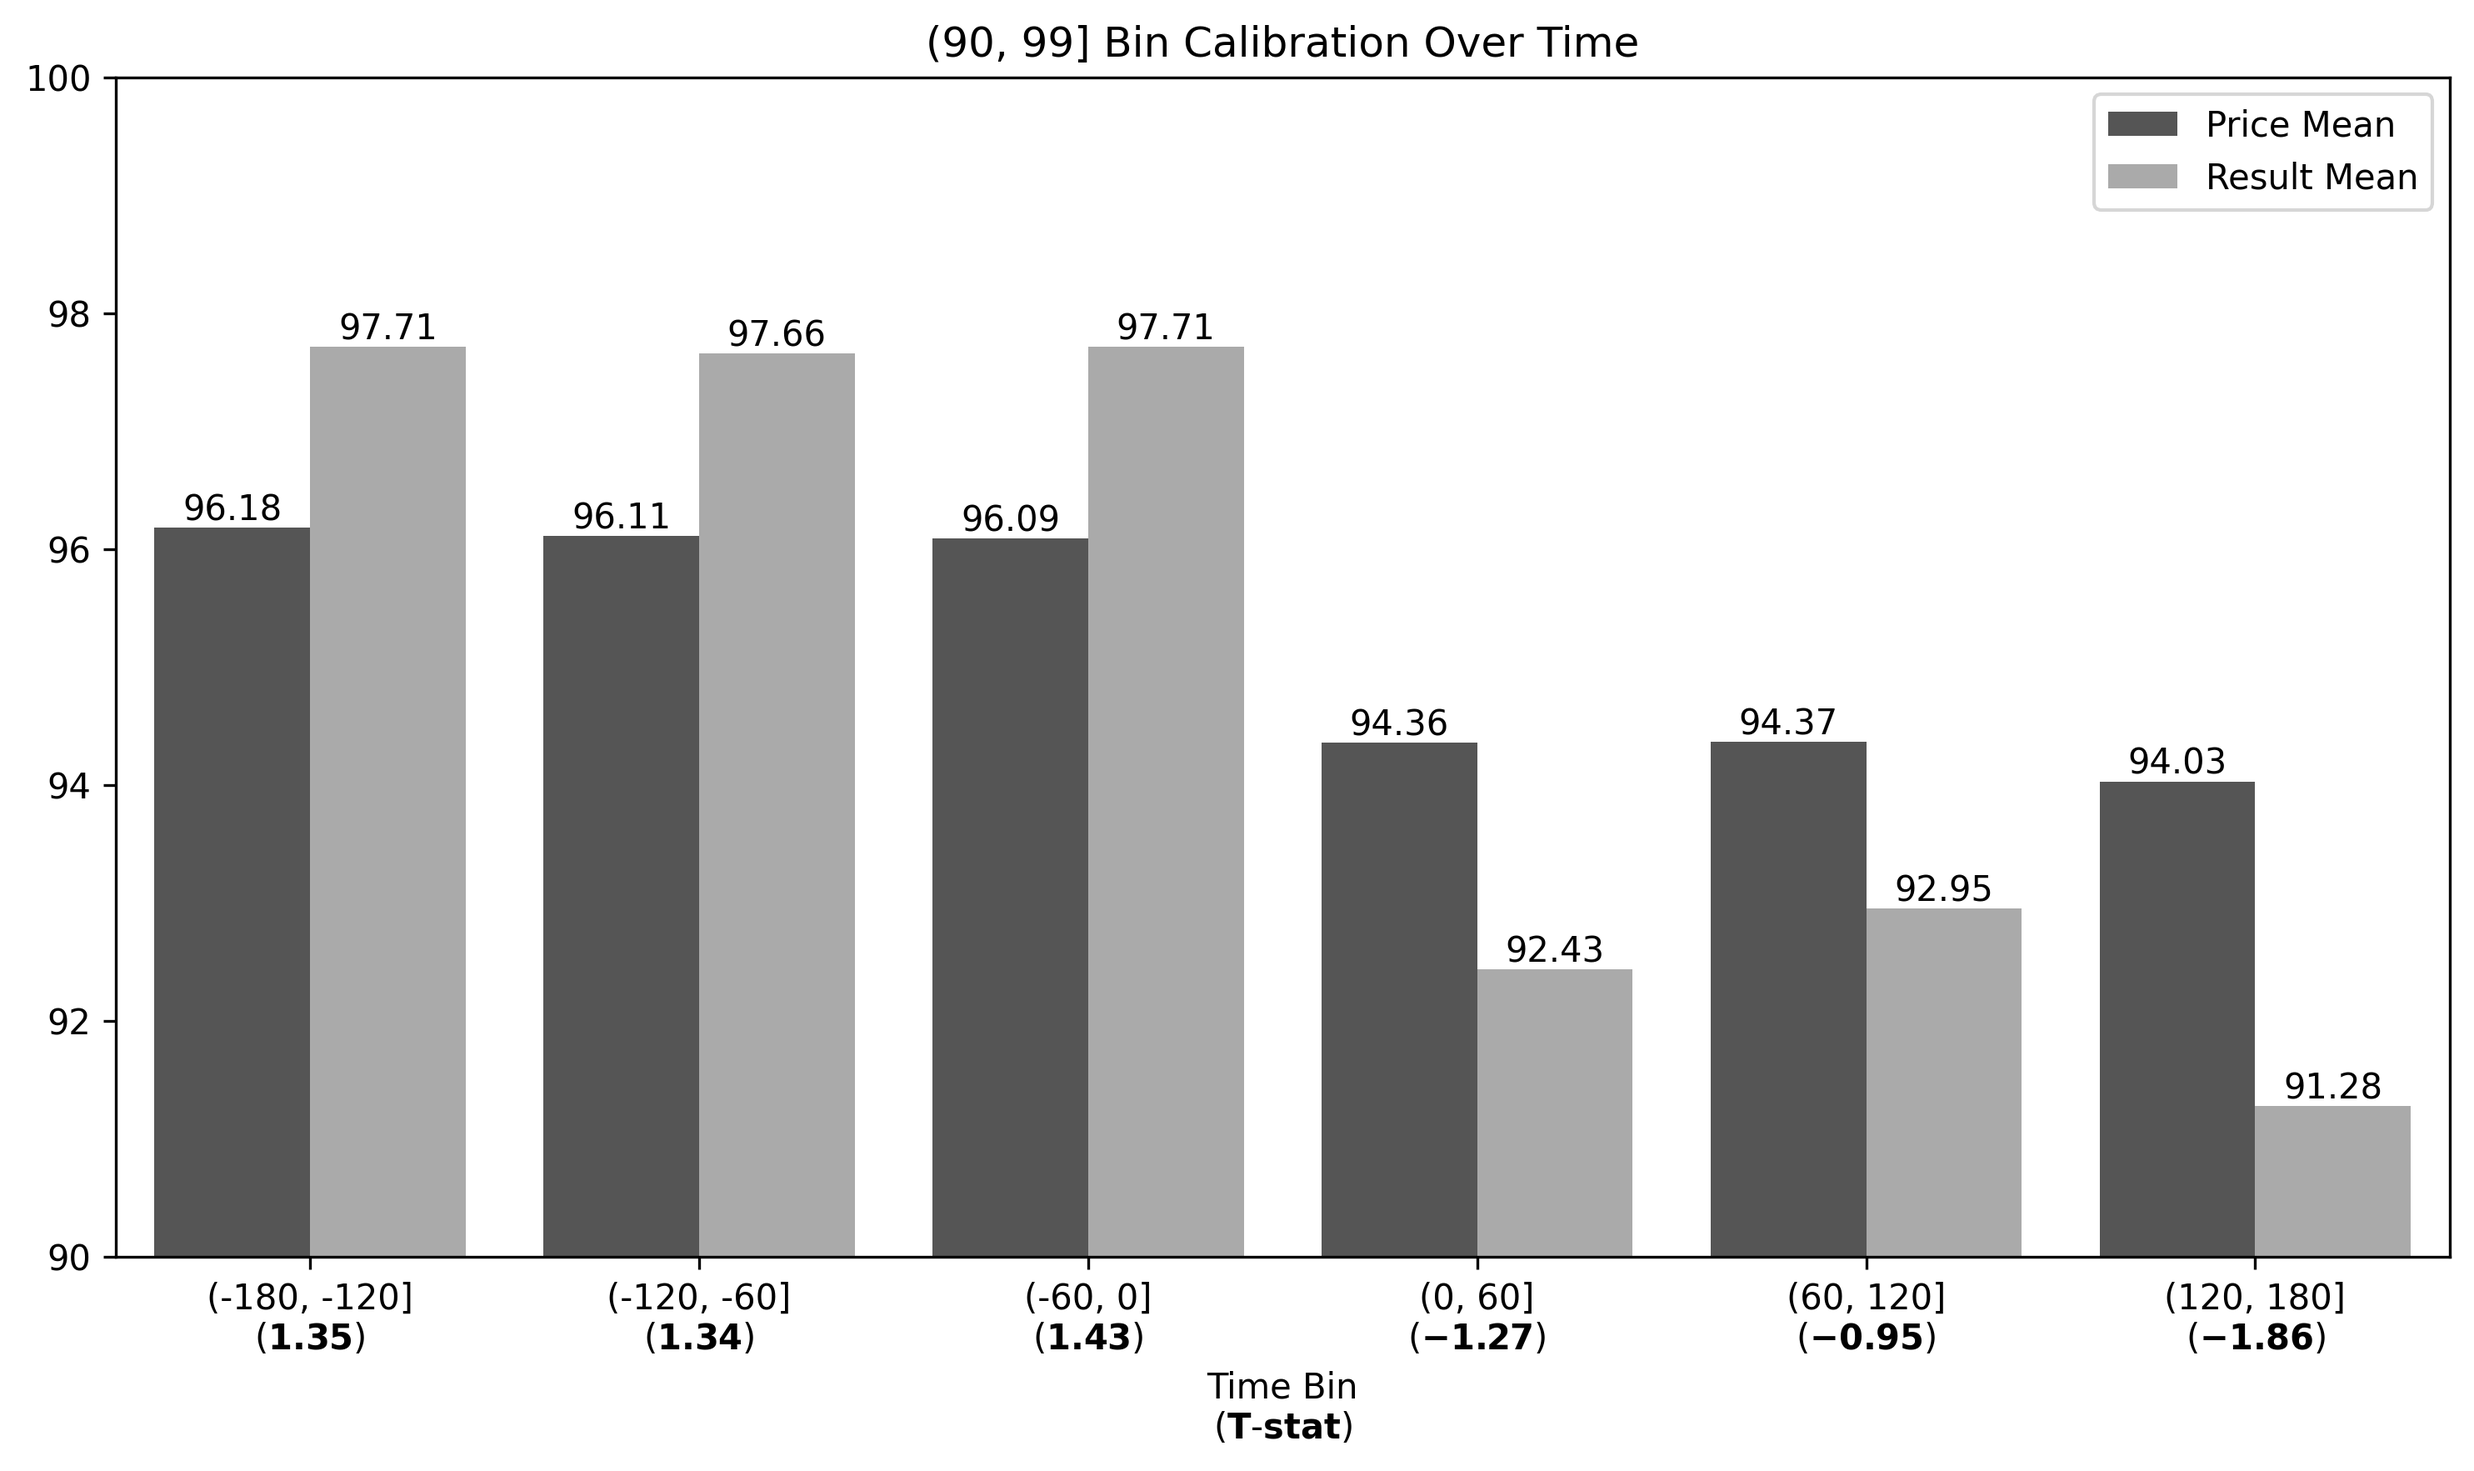
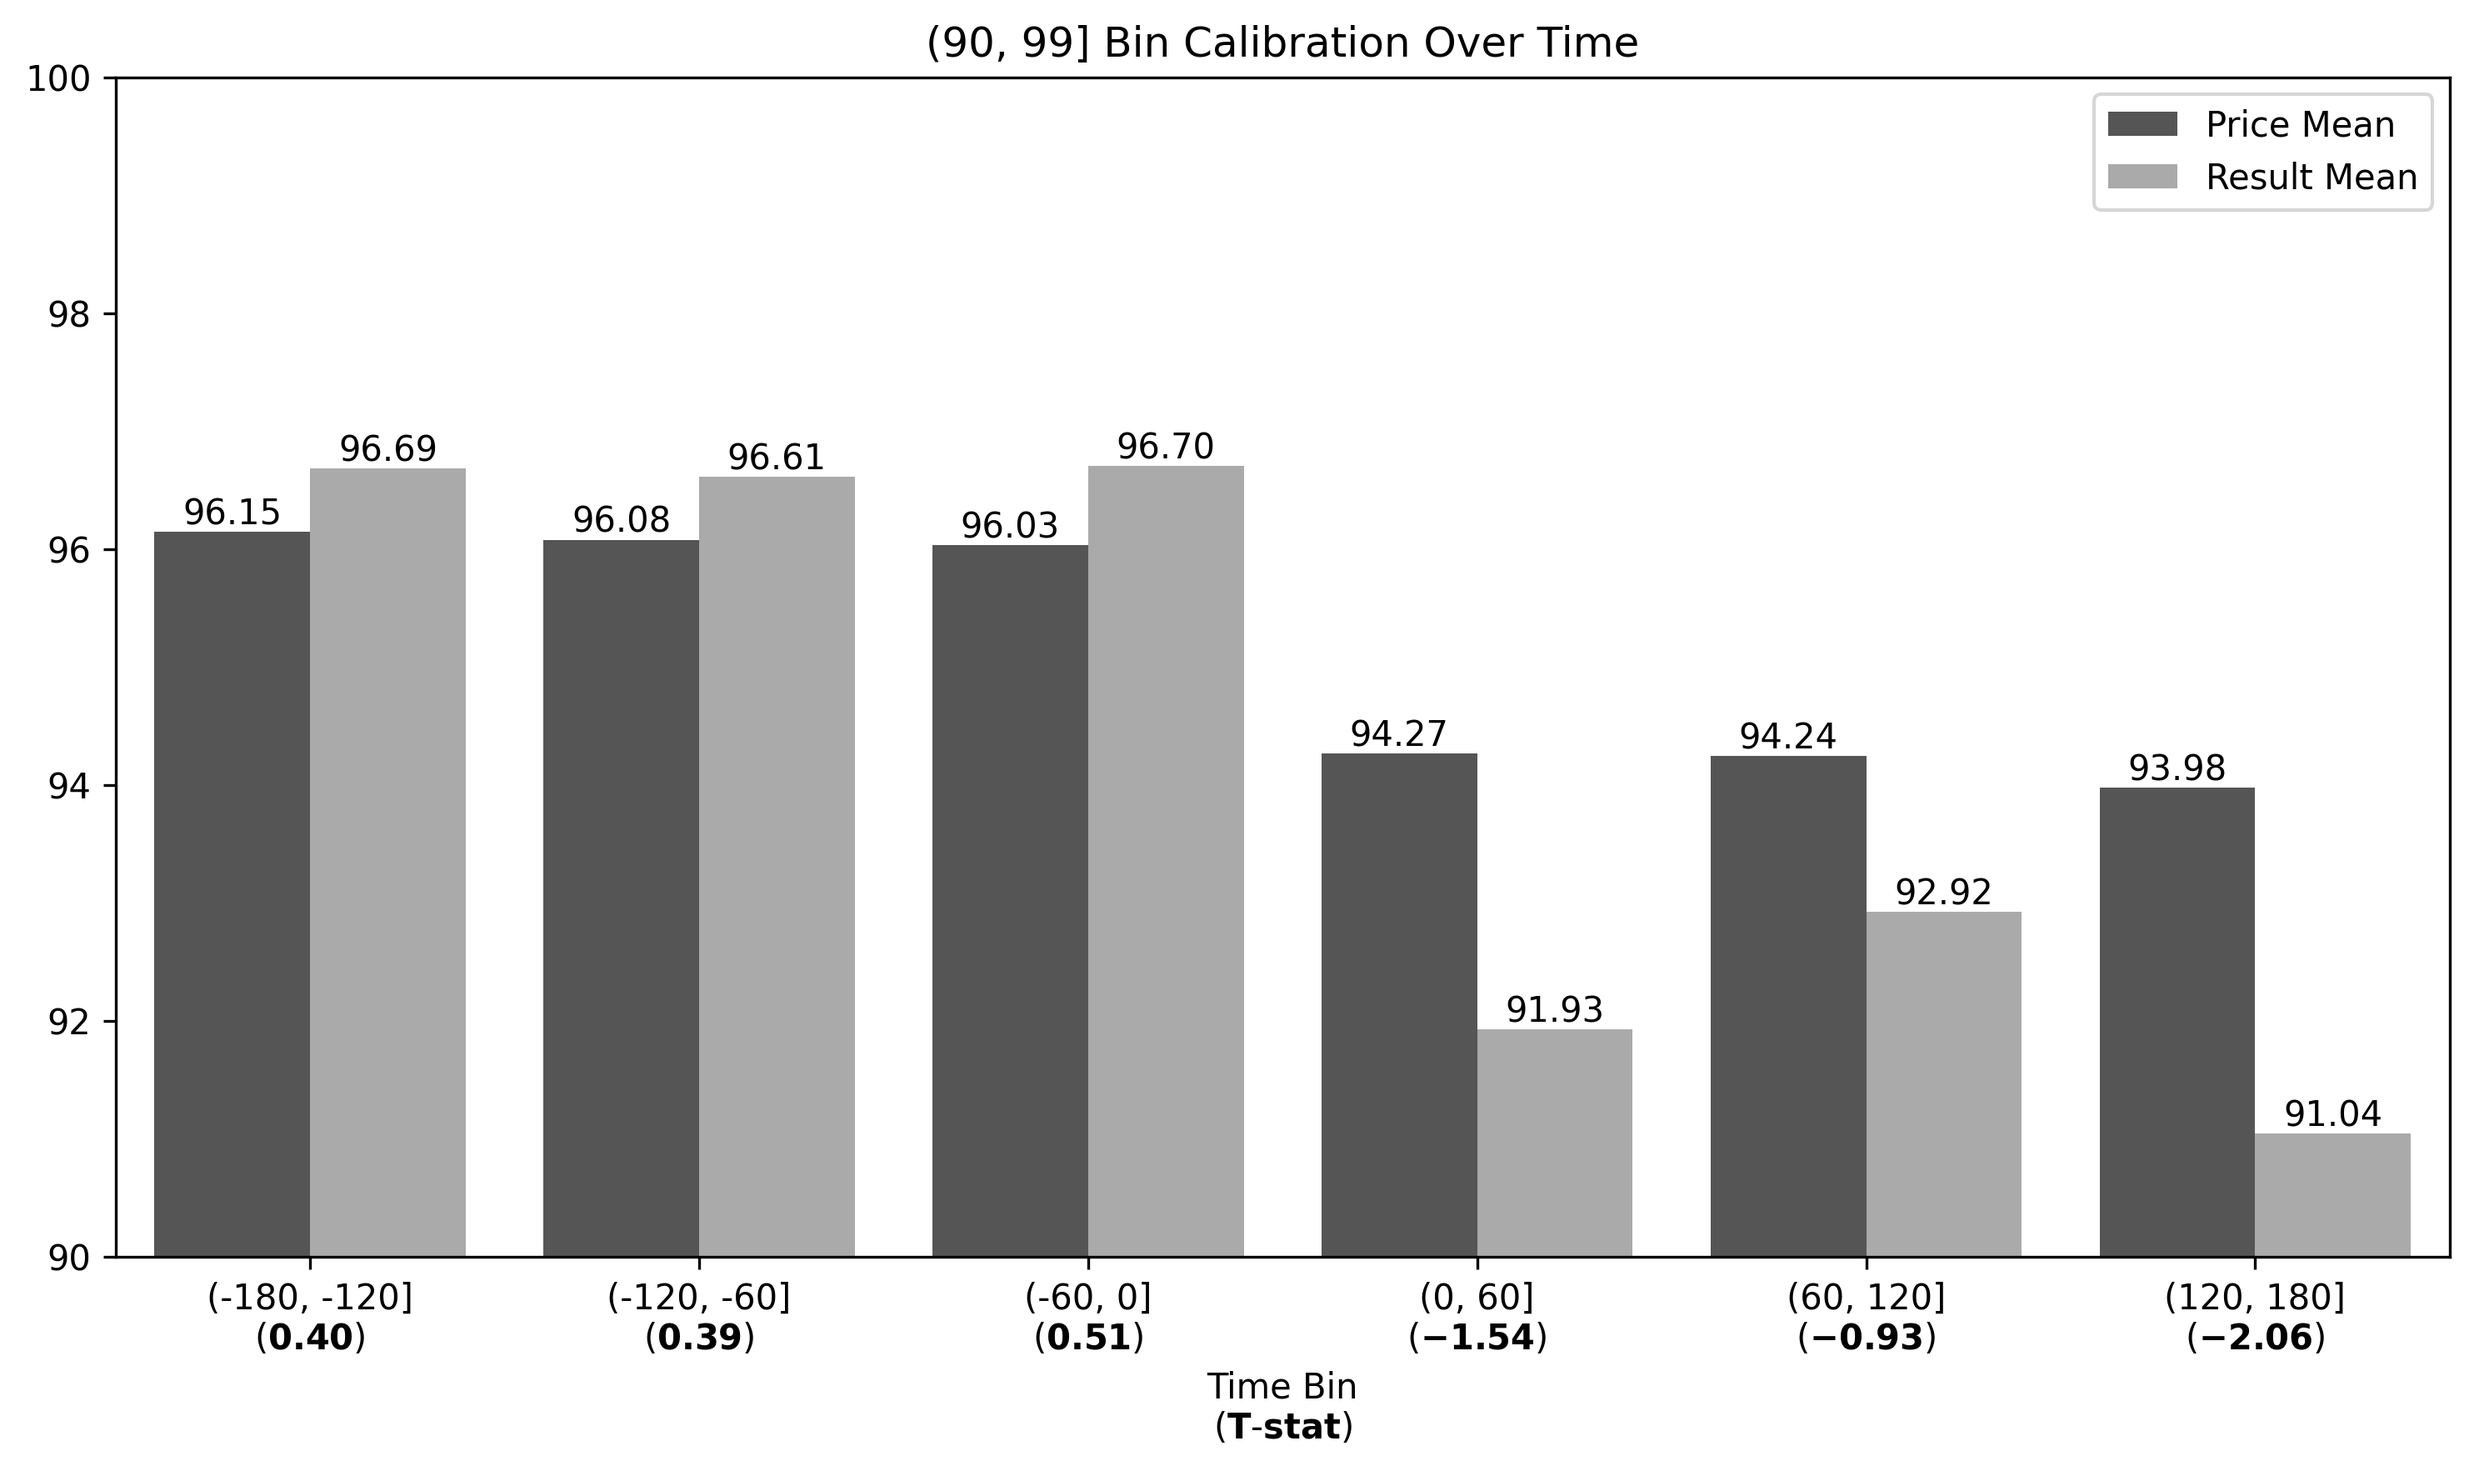
Updated results

diff --git a/nt_research/research/underdog_risk_premium/experiment_4.py b/nt_research/research/underdog_risk_premium/experiment_4.py
@@ -160,7 +160,7 @@ if __name__ == "__main__":
     os.makedirs(folder, exist_ok=True)
 
     # Load data
-    df = pl.read_parquet('data/2025-11-02_history_daily.parquet')
+    df = pl.read_parquet('data/2025-11-11_history_daily.parquet')
 
     # Get strategy returns
     results = get_strategy_returns(df, price_min, price_max)

diff --git a/nt_research/research/underdog_risk_premium/data_utils.py b/nt_research/research/underdog_risk_premium/data_utils.py
@@ -8,7 +8,7 @@ def get_trades(
     time_bin: str | None = None,
     price_bin: str | None = None,
 ):
-    df = pl.read_parquet("data/2025-11-02_history.parquet")
+    df = pl.read_parquet("data/2025-11-11_history.parquet")
 
     price_breaks = [0, 10, 20, 30, 40, 50, 60, 70, 80, 90, 99]
     time_breaks = np.arange(
